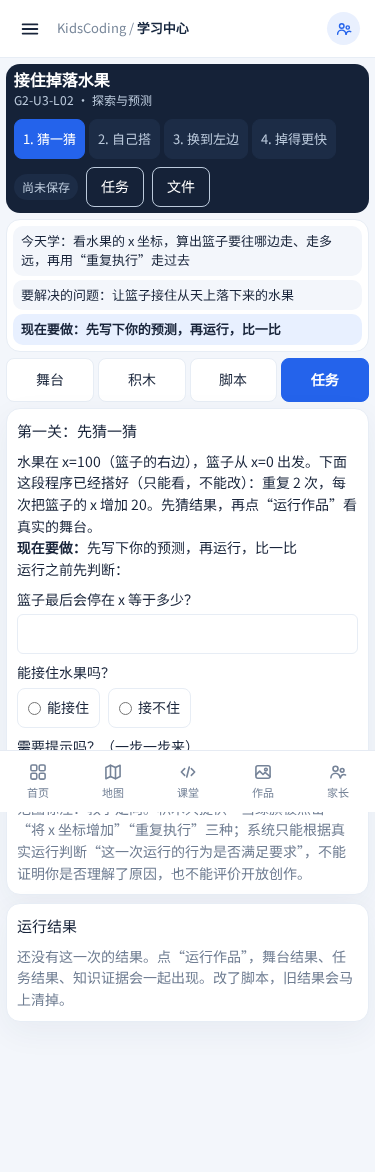
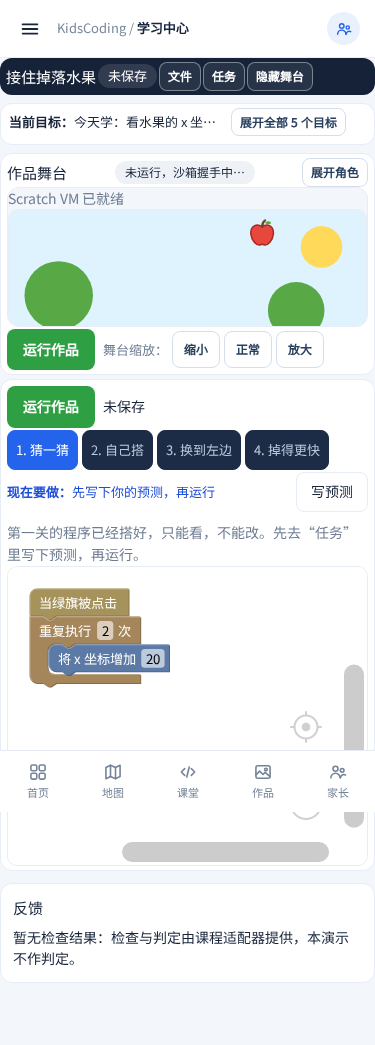
docs(G2-U3-L02): 证据 README 与三端截图更新为正式 LessonWorkspace 路由（自托管 VM、新测试数）

diff --git a/docs/roadmap/evidence/G2-U3-L02/README.md b/docs/roadmap/evidence/G2-U3-L02/README.md
@@ -10,7 +10,7 @@
 
 | 项 | 实际情况 |
 |---|---|
-| Scratch VM | 真实 `scratch-vm@5.0.300` + `scratch-storage@4.0.0`（与 `scratch-g2-sandbox.html` 同版本）。本沙箱环境访问不到 jsDelivr（HTTP 403），所以用 npm 拉取同版本包，经 `SCRATCH_VM_LOCAL_CDN=1`（仓库既有的本地覆盖机制）在测试里替代 CDN。CI 仍走真实 jsDelivr。 |
+| Scratch VM | 真实 `scratch-vm@5.0.300` + `scratch-storage@4.0.0`，由应用自己的源站提供（OPS-024：`prebuild` 把 npm 包复制到 `public/scratch-vm/`），本课沙箱与 `scratch-g2-sandbox.html` 同一路径、同一套收紧的 CSP（`script-src 'self'`、`connect-src 'none'`），不再走 jsDelivr，测试里也没有任何 CDN 变通。 |
 | 浏览器 | Chromium 153（来自 npm `@sparticuz/chromium`），headless，`--no-sandbox`。仓库既有 CI 用 `channel: 'chrome'`；本地没有 Chrome 可下载（Playwright 下载域被屏蔽），所以结果是 **Chromium 153，不是 Chrome 稳定版**。 |
 | 中文字体 | 该 Chromium 没有 CJK 字体，汉字会渲染成空白，宽度也不对。用 `L02_CJK_FONT_FILE` 注入 Noto Sans SC（仅测试注入，产品代码不含）。不设置该变量时（CI）不注入。 |
 | Node | 本机 Node 22.23.4 与 Playwright 1.58 / Next 的 PostCSS 加载有已知兼容问题，本地用 `NODE_OPTIONS=--no-experimental-require-module` 绕过；与本 PR 代码无关。 |
@@ -23,16 +23,18 @@
 
 ```
 npx vitest run src/features/lessons/g2-u3-l02
-npx playwright test tests/e2e/g2-u3-l02-vm.spec.ts tests/e2e/g2-u3-l02-classroom.spec.ts   # 三个 project: desktop / tablet / phone
+npx playwright test tests/e2e/g2-u3-l02-vm.spec.ts tests/e2e/g2-u3-l02-classroom.spec.ts tests/e2e/g2-u3-l02-shell-gap-a.spec.ts --project=desktop   # 三个视口由 spec 自己设置
 ```
 
 最近一次本地完整运行（与仓库 CI 一致：单个 `desktop` project；三个视口由 spec 自己设置）：
 
-- Vitest：**66 / 66 通过**。其中包含“首席批准数值”快照、各上限的恰好边界、三层结果的恰好边界、措辞一致性（任何结果都不出现“已掌握 / 任务判定 / 接住了”）。
+- Vitest（正式接线后，`src/features/lessons/g2-u3-l02`）：**137 通过 + 2 个预期失败（共享壳缺陷 D2，保持原状）**；加上共享 `workspace/` 一起跑：16 个文件 239 通过 + 2 预期失败。原来的 66 项在其中，包含“首席批准数值”快照、各上限的恰好边界、三层结果的恰好边界、措辞一致性（任何结果都不出现“已掌握 / 任务判定 / 接住了”）。
 - Playwright：
-  - `g2-u3-l02-vm.spec.ts`：**21 / 21 通过**（真实 Scratch VM）。
-  - `g2-u3-l02-classroom.spec.ts`：**43 通过，5 跳过，0 失败**（16 个用例标题 × [desktop / tablet / phone] = 48 个实例）。
-  - 5 个跳过：真实指针拖放在 tablet / phone 视口跳过 2 项（只在桌面验证）+ 证据截图 3 项（未设置 `L02_SHOT_DIR`）。
+  - `g2-u3-l02-vm.spec.ts`：**22 / 22 通过**（真实 Scratch VM；原 21 + 共享 RunTrace 映射与直接判定等价 1）。
+  - `g2-u3-l02-classroom.spec.ts`（正式路由 `/learn/g2-u3-l02` = 共享 LessonWorkspace + 本课适配器与三个槽位）：61 个实例；原 16 个用例标题全部保留（定位从 `l2-*` 换成壳的 `ws-*`，壳语义不同处在用例注释里说明），另加 自托管 VM（jsDelivr 被拦截仍能运行且零 CDN 请求）、手机默认首屏、原验证页的 3 个草稿与适配器用例。
+  - `g2-u3-l02-shell-gap-a.spec.ts`：14 个实例（7 场景 × 桌面 / 手机 375×812，真实触摸点按）：五项编辑操作、Blockly 焦点丢失、重新选择、运行后修改、草稿恢复、ShellControl 运行/停止/保存、保存失败。
+  - 三个文件合计 97 个实例：本地 87 通过 / 10 按设计跳过 / 0 失败（真实 Chromium 153）。**GitHub Actions 真实 Chrome 的结果见 PR #471，这里不预填。**
+  - 10 个按设计跳过：真实指针拖放在 tablet / phone 跳过 2、证据截图 3（未设置 `L02_SHOT_DIR`）、手机首屏用例在桌面 / 平板跳过 2、草稿与适配器用例不跑平板 3。
 - **变异检验**（为证明边界测试不是“怎么都过”）：把判定与限制里的比较符 / 阈值故意改错，测试必须失败。单元层 11 个变异（容差 `<=`→`<`、占比 `>=`→`>`、循环次数、落地帧、0 步过滤、积木 / 嵌套 / dx / 次数上限、容差 40→41、速度 30→20）与沙箱层 6 个变异（积木 12→13、嵌套 2→3、脚本 3→4、次数 20→21、dx ±100→±101）**全部被抓到**，随后已还原。
   - 检验中发现并修复了 2 个“漏网”：最初的“落地帧恰好”与“0 步循环”两个用例在变异下仍通过，说明它们没有真正约束行为；已重写为能区分的构造。
 - ESLint：本 PR 新增文件 0 error、0 warning。
@@ -64,13 +66,13 @@ npx playwright test tests/e2e/g2-u3-l02-vm.spec.ts tests/e2e/g2-u3-l02-classroom
 | 知识证据恰好边界（真实 VM） | 循环只执行 1 次不满足；循环占比恰好 50%（80/160）满足，48.75% 不满足；0 步循环不算 |
 | 程序上限（真实 VM） | 最大合法程序能跑：12 块、次数 20、移动 ±100、嵌套 2、3 条脚本；13 块、嵌套 3、4 条脚本、次数 21、移动 ±101 均被沙箱拒绝 |
 
-## 四、课堂浏览器测试（`g2-u3-l02-classroom.spec.ts`，16 个用例 × 三个视口）
+## 四、课堂浏览器测试（`g2-u3-l02-classroom.spec.ts`，正式路由，三个视口）
 
 首屏五要素；提示 1→2→3 逐级揭示且开始前不出现完整答案；第一层不写预测不能运行、预测与真实结果对比；第二层空脚本 / 只有绿旗 / 错误数字 / 正确数字；改脚本后旧结果立即清除、已通过的关卡变回未通过；舞台真实坐标；保存与刷新恢复；保存失败显示“未能保存”；迁移左边、迁移更快；切换关卡不污染；运行中停止；文件菜单保存 / 导出 / 导入 / 重新开始、导入错课节作品被拒；角色管理只读查看水果脚本；溢出、遮挡与触摸尺寸。
 
 桌面真实指针拖放：从分类面板按住拖出三块 → 用 `data-program` 断言结构是“绿旗 → 重复 → 里面一块移动” → 改参数 → 运行通过（篮子停在 x=150）→ 把移动积木拖进垃圾桶 → 脚本结构变为“重复里面为空” → 旧结果清除 → 重新运行变成未通过。
 
-截图（本地真实 Chromium，1440 / 768 / 375）：`screenshots/{desktop,tablet,phone}-{1-first-visit,2-solve-fail,3-solve-pass}.png`。
+截图（正式 LessonWorkspace 路由，本地真实 Chromium，1440 / 768 / 375；2026-11 接线后重新生成）：`screenshots/{desktop,tablet,phone}-{1-first-visit,2-solve-fail,3-solve-pass}.png`。
 这些截图只证明布局和内容，不代替真实设备上的触摸手感。
 
 ## 五、测试发现并已修复的缺陷（保留记录）
